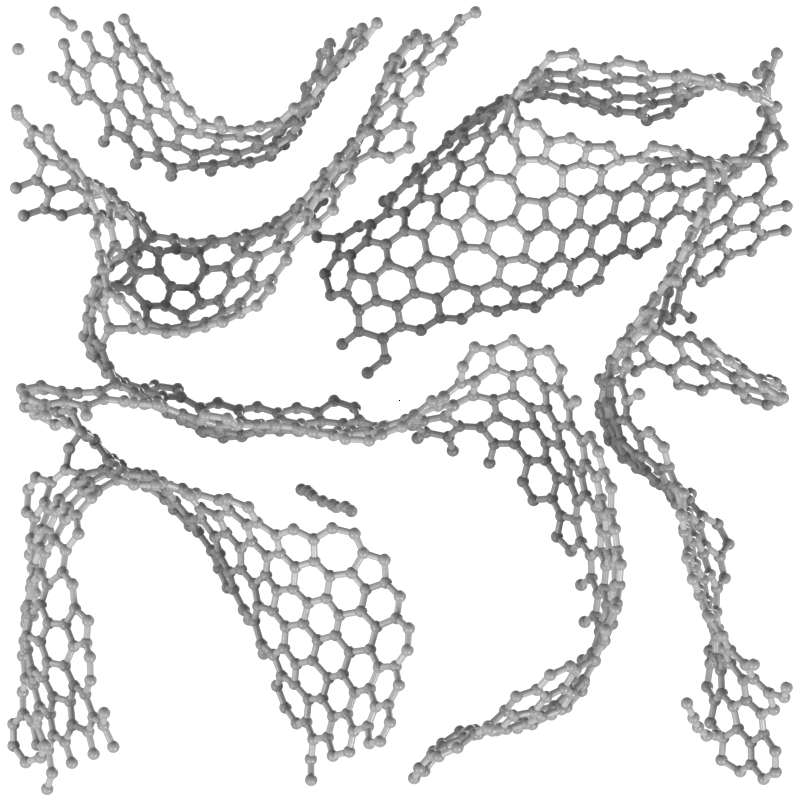
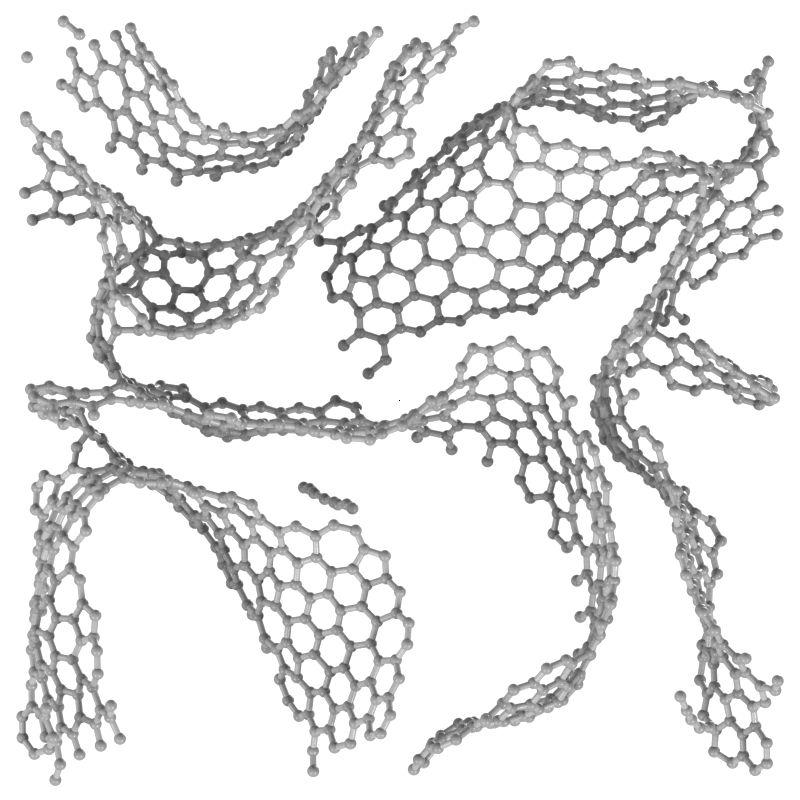
Put Fig. 8's density row on one scale by construction: cage each panel at its cell edge plus a sphere diameter, and weight each column by the width molrender frames round that cage.
Under the plate's tilted view the orthographic camera frames a cage's projected height, 0.948 x edge + 3.5 A, not its edge, so weights equal to the cage edges would have left a 5% scale drift across the row. Measured on the re-rendered panels, frame over weight now varies by 0.27%. The cages are rounded up to 0.1 A so an atom on a cell face still passes the containment guard; the unused plate-level cage is gone. The new tests recompute every weight from the manifest and molrender's framing rule, and check each cage against the cell edge and the 100 px floor in grid.css (now 2.88 px a unit). Grid.astro's header also records why grid.css is imported by the page.

Changed region(s): [[0.0, 0.0, 1.0, 1.0]]

diff --git a/src/styles/grid.css b/src/styles/grid.css
@@ -7,7 +7,7 @@
 
 .grid {
   --floor: 100px;
-  --floor-per-weight: 3.1px;
+  --floor-per-weight: 2.88px; /* 100 px for the smallest weight in use, 34.8 (Fig. 8) */
   display: grid;
   grid-template-columns: var(--tracks);
   gap: 0.5rem;

diff --git a/scripts/tests/test_article_figures.py b/scripts/tests/test_article_figures.py
@@ -10,15 +10,34 @@ nobody copied into the MDX fails here rather than shrinking labels under 11 px.
 
 from __future__ import annotations
 
+import math
 import re
 from pathlib import Path
 
+import boxprep
+import numpy as np
+import panel_checks
 import pytest
 from figure_style import NARROW_CHART_EM
 
 REPO = Path(__file__).resolve().parents[2]
 ARTICLE = REPO / "src" / "content" / "work" / "carbon.mdx"
 MDX = ARTICLE.read_text()
+GRID_CSS = (REPO / "src" / "styles" / "grid.css").read_text()
+MANIFEST_PANELS = {
+    panel["id"]: panel
+    for manifest in (REPO / "scripts" / "figures" / "data").glob("**/manifest.json")
+    for panel in panel_checks.load_panels(manifest)
+}
+WEIGHTED_GRIDS = [
+    (
+        [float(weight) for weight in weights.split(",")],
+        re.findall(r'"([^"]+)\.png"', panels),
+    )
+    for weights, panels in re.findall(
+        r"weights=\{\[([^\]]+)\]\}\s*panels=\{\[([^\]]+)\]\}", MDX
+    )
+]
 RAW_IMPORTS = dict(re.findall(r'^import (\w+) from "(\./[^"]+\.svg)\?raw";$', MDX, re.M))
 WRAPPERS = re.findall(
     r'<div class="(chart(?: chart--narrow)?)" style="--chart-em: ([\d.]+)"[^>]*>\s*'
@@ -57,3 +76,62 @@ def test_the_wrapper_chart_em_is_the_charts_own(wrapper_class, mdx_chart_em, nam
     assert attribute == pytest.approx(measured, abs=0.05), f"{name}: drawn at {measured:.2f} em"
     if wrapper_class == "chart chart--narrow":
         assert attribute <= NARROW_CHART_EM, f"{name} is wider than the phone budget"
+
+
+def framed_width_angstrom(cage_angstrom: list[float], direction: list[float]) -> float:
+    """The width of world space an orthographic molrender camera frames round a cage.
+
+    molrender's `place_camera` (molrender/blender/view.py) projects the corners of
+    everything loaded onto the camera's right and up axes and sets `ortho_scale` to the
+    larger full extent, times the margin; for a square render that is the frame's width.
+    The camera looks along -direction with z up. The margin is left out: it is the same
+    for every panel of a row, so it cancels from their ratios.
+
+    Args:
+        cage_angstrom: [x, y, z] full extents of the cage, in angstrom.
+        direction: The manifest's vector from the subject towards the camera.
+
+    Returns:
+        The framed width, in angstrom.
+    """
+    forward = -np.asarray(direction, dtype=float) / np.linalg.norm(direction)
+    right = np.cross(forward, [0.0, 0.0, 1.0])
+    right /= np.linalg.norm(right)
+    up = np.cross(right, forward)
+    signs = np.array([[x, y, z] for x in (-1, 1) for y in (-1, 1) for z in (-1, 1)])
+    corners = signs * np.asarray(cage_angstrom) / 2
+    return float(2 * max(np.abs(corners @ right).max(), np.abs(corners @ up).max()))
+
+
+def test_the_density_row_is_weighted_and_caged():
+    assert len(WEIGHTED_GRIDS) == 1
+    _weights, files = WEIGHTED_GRIDS[0]
+    assert all(file.startswith("density-") for file in files)
+
+
+@pytest.mark.parametrize(("weights", "files"), WEIGHTED_GRIDS)
+def test_each_weight_is_the_width_its_cage_is_framed_at(weights, files):
+    # Equal angstrom per page pixel needs each column in proportion to the world width its
+    # square render spans, which is what molrender frames round the panel's cage.
+    for weight, file in zip(weights, files, strict=True):
+        panel = MANIFEST_PANELS[file]
+        assert panel.get("cage_angstrom"), f"{file} shares a scale but has no cage"
+        framed = framed_width_angstrom(panel["cage_angstrom"], panel["direction"])
+        assert weight == round(framed, 1), f"{file}: weight {weight}, framed {framed:.3f} A"
+
+
+@pytest.mark.parametrize(("weights", "files"), WEIGHTED_GRIDS)
+def test_each_cage_is_its_cell_edge_plus_a_sphere_diameter(weights, files):
+    # Rounded up to 0.1 A, so the containment guard holds for an atom on a cell face.
+    for file in files:
+        panel = MANIFEST_PANELS[file]
+        edge_angstrom = boxprep.box_edge_from_density(5832, panel["density_g_cm3"])
+        needed_angstrom = edge_angstrom + 2 * panel["sphere_radius_angstrom"]
+        side_angstrom = math.ceil(needed_angstrom * 10) / 10
+        assert panel["cage_angstrom"] == [side_angstrom, side_angstrom, 11.0], file
+
+
+def test_the_weight_floor_gives_the_smallest_weighted_panel_100_px():
+    floor_px = float(re.search(r"--floor-per-weight: ([\d.]+)px", GRID_CSS).group(1))
+    smallest = min(min(weights) for weights, _ in WEIGHTED_GRIDS)
+    assert 100 <= floor_px * smallest < 101

diff --git a/scripts/tests/test_manifests.py b/scripts/tests/test_manifests.py
@@ -19,20 +19,9 @@ from PIL import Image
 REPO = Path(__file__).resolve().parents[2]
 MANIFESTS = sorted((REPO / "scripts" / "figures" / "data").glob("**/manifest.json"))
 # 2026-10-01: uncropped 800 x 800 renders from before the crop. The two whole-cluster
-# sections are on no page (Fig. 11 shows the exemplar sections); the density row is caged
-# and re-rendered in a later commit. The mark is strict, so a name left here after its
-# panel is re-rendered fails the suite.
-UNCROPPED_PENDING_RERENDER = {
-    "C1000-500K-section",
-    "C1000-3000K-section",
-    "density-0.5gcc-3500K",
-    "density-1.0gcc-3500K",
-    "density-1.5gcc-3500K",
-    "density-2.0gcc-3500K",
-    "density-2.5gcc-3500K",
-    "density-3.0gcc-3500K",
-    "density-3.5gcc-3500K",
-}
+# sections are on no page (Fig. 11 shows the exemplar sections). The mark is strict, so
+# a name left here after its panel is re-rendered fails the suite.
+UNCROPPED_PENDING_RERENDER = {"C1000-500K-section", "C1000-3000K-section"}
 PANELS = [
     pytest.param(
         panel,
